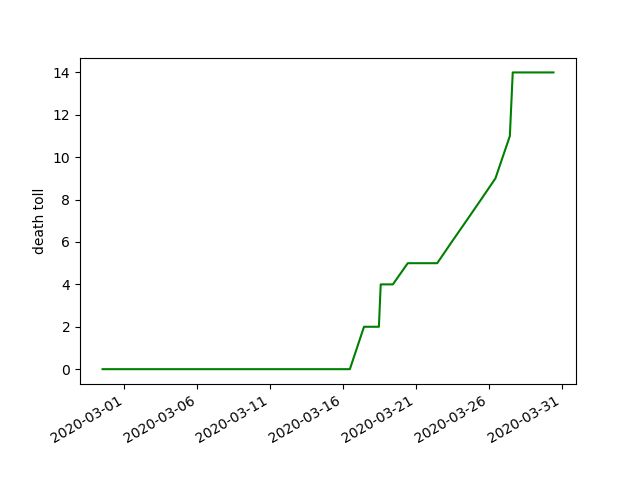
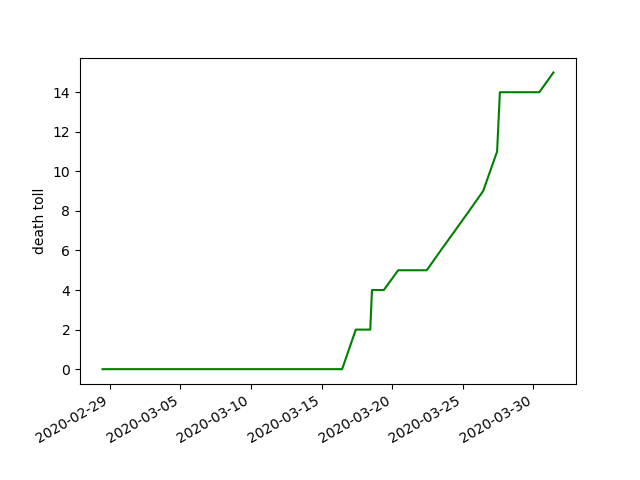
update covid19

diff --git a/content/blog/Covid19/index.md b/content/blog/Covid19/index.md
@@ -1,13 +1,13 @@
 --- 
  title: Covid19 in Aachen (Stadt und Städteregion) 
- date: "2020-03-30T12:05:17.000Z" 
+ date: "2020-03-31T11:05:20.000Z" 
 --- 
 The city of Aachen publishes (more or less) daily updates about Covid19. It's in the form of a daily press release, so I decided to collect this data to make it more usable for further processing ([google spread sheet](https://docs.google.com/spreadsheets/d/1Th4GSgmTpX4GtcebVDzIfRuCOu2cSOc2WJCORHcCw-Y)).
 
 Below is the development of cases in the Städteregion Aachen and the city of Aachen: 
 ![Cases of Covid19](cases.png)And the current death toll: 
 ![Deaths from Covid19](deaths.png)And the year of birth of the deceased. Their average (median) year of birth was 1939. Which corresponds to an average age of 81.
-![Year of Birth](year.png)And the gender distribution of the deceased. 79.0 % of victms were male.
+![Year of Birth](year.png)And the gender distribution of the deceased. 80.0 % of victms were male.
 ![Gender](gender.png)
 
 ## How this site is generated 
